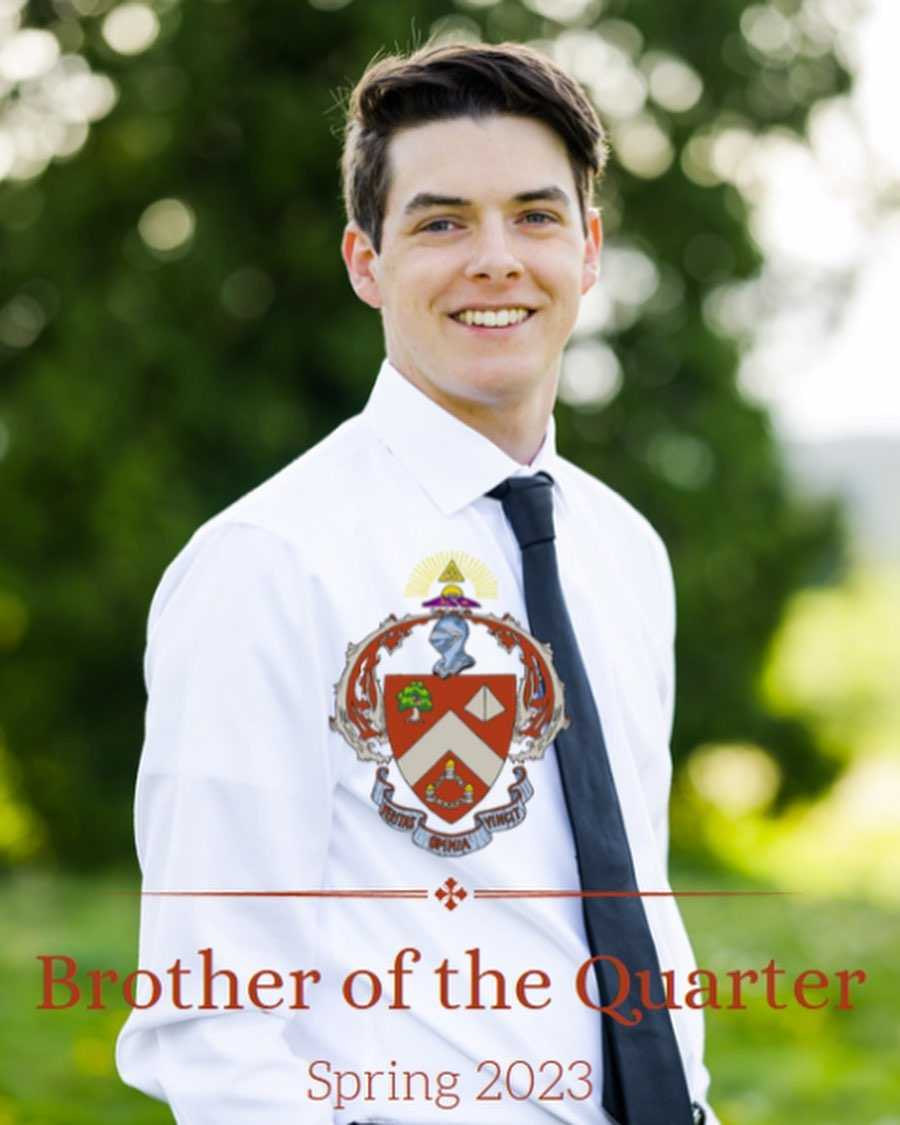
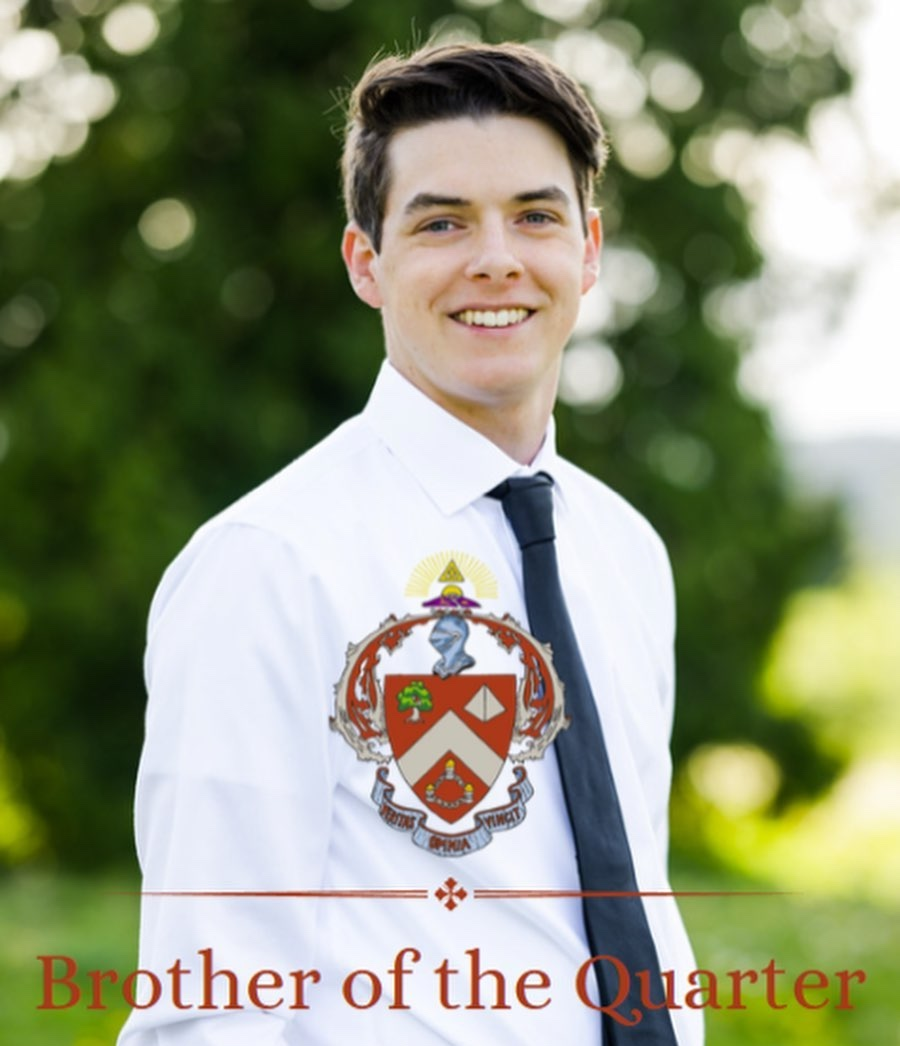
Crop Jacob's brother of the quarter photo, update rush page details about Jacob. Add Iota class

diff --git a/index.html b/index.html
@@ -176,9 +176,9 @@
             <div class="row">
                 <div class="col-lg-12 text-center">
                     <h2 class="section-heading">Interested in Rushing?</h2>
-                    <p>Learn more about rushing Triangle or schedule a call with a brother to get to know someone new, hear about Triangle, and get your questions answered!</p>
-                    <a class="js-scroll-trigger btn btn-xl btn-primary" href="rush.html" style = "margin: 5px;">Rush</a>
-                    <a class="js-scroll-trigger btn btn-xl btn-primary" href="https://calendly.com/uwtriangle/15min" target="_blank" style = "margin: 5px">Schedule a Call</a>
+                    <p>Learn more about rushing Triangle and what that entails on our rush page!</p>
+                    <a class="js-scroll-trigger btn btn-xl btn-primary" href="rush.html" style = "margin: 5px;">Rush Triangle</a>
+                    <!-- <a class="js-scroll-trigger btn btn-xl btn-primary" href="https://calendly.com/uwtriangle/15min" target="_blank" style = "margin: 5px">Schedule a Call</a> -->
                 </div>
             </div>
             <div class="row">
@@ -205,7 +205,7 @@
 
                     <h4>How will joining Triangle affect my academics?</h4>
                     <p>Given that STEM and Architecture are both very challenging programs at UW,
-                        academics are our top priority. We ensure and expect brothers to succeed academically.
+                        academics are a strong priority. We ensure and expect brothers to succeed academically.
                         We keep track of what classes our brothers are taking and can pair brothers in the same
                         classes to study. We also have experienced older brothers to help tutor students.
                         We care about our brother’s academics and are always making sure that everyone gets the support they need to
@@ -218,7 +218,7 @@
                         see what we've been up to!</p>
 
                     <h4>Is there a live-in requirement if I join?</h4>
-                    <p>No, but we collectively rent out a house close to UW that is encouraged for members to live at. Rent prices tend to be cheaper at the house than at apartments or via school housing, featuring a great location, larger room sizes, and more. This is also where many brotherhood events occur throughout the year! Also, there are no fees if you do not want to live in this house, unlike at some other groups on campus.</p>
+                    <p>No, but we collectively rent out a house close to UW that is highly encouraged for members to live at. Rent prices tend to be cheaper at the house than at apartments or via school housing. The chapter house is in a great neighborhood close to campus, larger room sizes, and more. This is also where most brotherhood events occur throughout the year! There are no fees if you do not want to live in this house, unlike at some other groups on campus.</p>
 
                     <h4>Do we haze?</h4>
                     <p><strong>No, we do not haze.</strong> We believe hazing is morally wrong. Our goal is to better
@@ -236,7 +236,8 @@
         </div>
     </section>
 
-    <!-- Past Events -->
+    <!-- Images -->
+    <!-- TODO: Consider embedding recent Instagram posts -->
     <section id="gallery">
         <div style="margin: 0 15%">
             <div class="col-lg-12 text-center">
@@ -252,56 +253,54 @@
             </div>
             <div class="tz-gallery text-center">
                 <div class="row">
+                    <div class="col-sm-6 col-md-4">
+                        <a class="lightbox" data-caption="Iota initiation day!"
+                            href="img/classes/iota/all.jpg">
+                            <img src="img/classes/iota/all.jpg" alt="Iota Class">
+                        </a>
+                    </div>
 
-                    <!-- Row of three -->
+                    <div class="col-sm-6 col-md-4 align-center">
+                        <a class="lightbox" data-caption="Our Iota class."
+                            href="img/classes/iota/class.jpg">
+                            <img src="img/classes/iota/class.jpg" alt="Iota Class">
+                        </a>
+                    </div>
+
                     <div class="col-sm-6 col-md-4">
                         <a class="lightbox" data-caption="Our Zeta Class, initiated!"
                             href="img/events/zeta.jpg">
                             <img src="img/events/zeta.jpg" alt="pumpkin">
                         </a>
                     </div>
-                    <div class="col-sm-6 col-md-4">
-                        <a class="lightbox" href="img/events/zeta-goofy.jpg" data-caption="Our Zeta Class, initiated, and a little more fun!">
-                            <img src="img/events/zeta-goofy.jpg" alt="Study Session">
-                        </a>
-                    </div>
-                    <div class="col-sm-6 col-md-4">
-                        <a class="lightbox" data-caption="Game Night, Playing Pool @ The Hub, UW"
-                            href="img/events/pool.jpeg">
-                            <img src="img/events/pool.jpeg" alt="pumpkin">
-                        </a>
-                    </div>
+                </div>
 
-                    <!-- End row -->
-
-                    <!-- Row of three -->
-                    <div class="col-sm-6 col-md-4">
-                        <a class="lightbox" href="img/events/bar.jpeg" data-caption="Alumni Night in Capitol Hill!">
-                            <img src="img/events/bar.jpeg" alt="Study Session">
-                        </a>
-                    </div>
+                <div class="row">
                     <div class="col-sm-6 col-md-4">
                         <a class="lightbox" href="img/eboard2223/front.JPG"
-                            data-caption="Executive Board 202">
+                            data-caption="Executive Board Highlights">
                             <img src="img/eboard2223/front.JPG" alt="Executive Board 2022-2023">
                         </a>
                     </div>
+
                     <div class="col-sm-6 col-md-4">
                         <a class="lightbox" data-caption="Brothers enjoying the snow"
                             href="img/events/snow.jpeg">
-                            <img src="img/events/snow.jpeg" alt="pumpkin">
+                            <img src="img/events/snow.jpeg" alt="Snow Day">
                         </a>
                     </div>
 
                     <div class="col-sm-6 col-md-4">
                         <a class="lightbox" href="img/events/ltw20.jpg"
-                            data-caption="The Eboard attending the Leadership Traning Weekend in Indiana">
+                            data-caption="Former executive board attending the Leadership Traning Weekend in Indiana">
                             <img src="img/events/thumb/ltw20-thumb.jpg" alt="LTW 2020">
                         </a>
                     </div>
+                </div>
 
+                <div class="row">
                     <div class="col-sm-6 col-md-4">
-                        <a class="lightbox" href="img/events/study_session.jpg" data-caption="Study Session">
+                        <a class="lightbox" href="img/events/study_session.jpg" data-caption="Weekly Study Sessions">
                             <img src="img/events/thumb/study_session.jpg" alt="Study Session">
                         </a>
                     </div>
@@ -314,22 +313,17 @@
                     </div>
 
                     <div class="col-sm-6 col-md-4">
-                        <a class="lightbox" data-caption="The new Delta class candidates!"
+                        <a class="lightbox" data-caption="The Delta class candidates!"
                             href="img/events/19au-all.jpg">
                             <img src="img/events/thumb/19au-all.jpg" alt="DeltaClass">
                         </a>
                     </div>
-
+                </div>
+                <div class="row">
                     <div class="col-sm-6 col-md-4">
                         <a class="lightbox" data-caption="Row Boat Racing in the Spring"
                             href="img/events/rowboat19sp.jpeg">
                             <img src="img/events/thumb/rowboat19sp.jpeg" alt="RowBoat">
-                        </a>
-                    </div>
-
-                    <div class="col-sm-6 col-md-4">
-                        <a class="lightbox" data-caption="Golden Garden Trip" href="img/events/goldengarden20su.jpg">
-                            <img src="img/events/goldengarden20su.jpg" alt="Golden Garden">
                         </a>
                     </div>
 
@@ -347,13 +341,15 @@
                         </a>
                     </div>
 
+                </div>
+
+                <div class="row">
                     <div class="col-sm-6 col-md-4">
                         <a class="lightbox" data-caption="Guys being guys at formal"
                             href="img/formal2019/cute.jpg">
                             <img src="img/formal2019/thumb/cute_thumb.jpg" alt="formal-cute">
                         </a>
                     </div>
-
                 </div>
             </div>
         </div>
@@ -365,7 +361,7 @@
             <div class="row">
                 <div class="col-lg-12 text-center">
                     <h2 class="section-heading">Executive Board</h2>
-                    <h3 class="section-subheading">Meet our officers!</h3>
+                    <h3 class="section-subheading">Meet our officers</h3>
                 </div>
             </div>
 

diff --git a/rush.html b/rush.html
@@ -131,7 +131,7 @@
                     <!--<strong>Note that the Study Sessions and Game Nights count towards the 3-activities requirement for interviewing!</strong><br><br>-->
                 </p>
                     <p class="text-muted">
-                        Fall rush happens late September and early October. Please stay tuned for more information, such as about Spring rush. Please text Jacob, our Recruitment Vice President, at 425-219-3268 if you are interested in Triangle. Check out our most recent fall rush schedule below!
+                        Fall rush happens late September and early October. Please stay tuned for more information, such as about Spring rush. Please text Jacob, our President, at 425-219-3268 if you are interested in Triangle. Check out our most recent fall rush schedule below!
                         <!-- Please view our calendar below for our rush event schedule. We look forward to meeting you soon! Please text Jacob at 425-219-3268 for more details or for any last minute questions. -->
                     </p>
                     <img src = "img/rush/fall23.jpg" class="mx-auto" width="400px">
